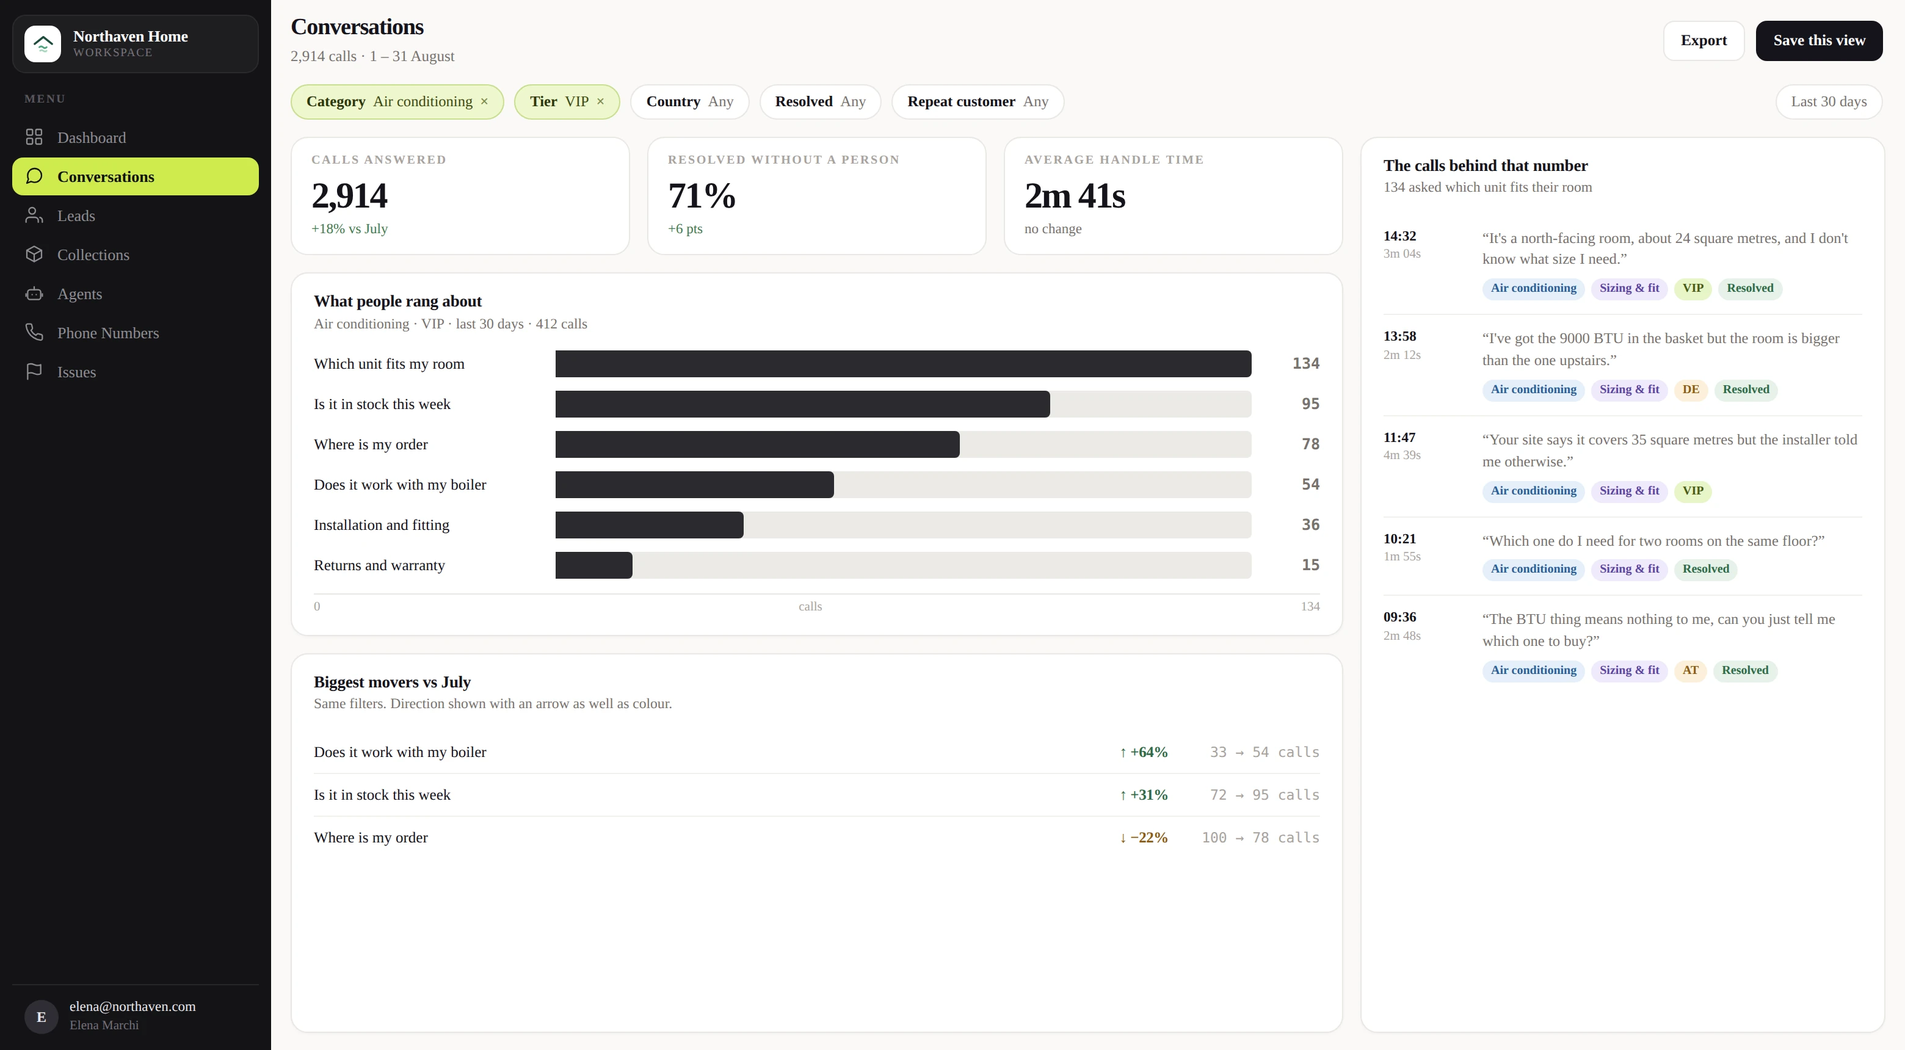
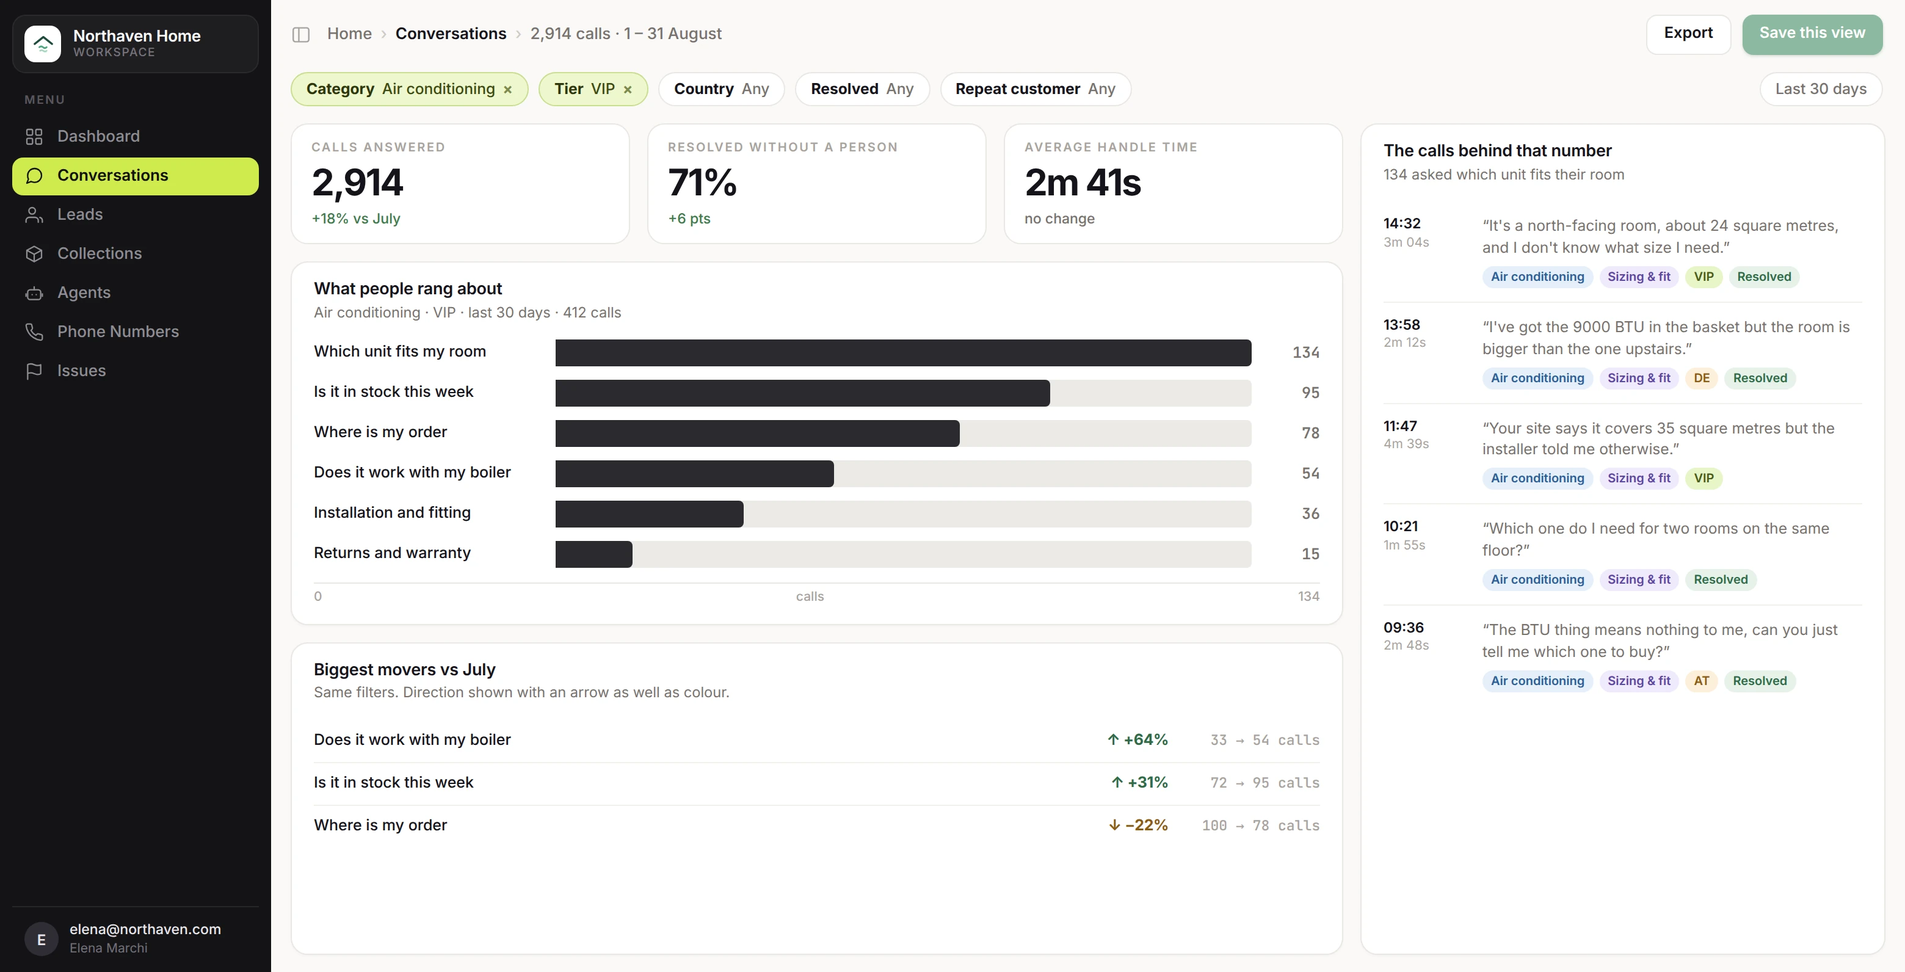
product section: five pages, fixed hero screenshots, integrations hero rewrite

diff --git a/site/it/prodotto/integrations-webhooks.html b/site/it/prodotto/integrations-webhooks.html
@@ -42,7 +42,7 @@
   <link href="/fuc/images/hWFOqN6Okd1QgfKhizqgIF1s.png" rel="icon" media="(prefers-color-scheme: light)">
   <link href="/fuc/images/dEcuqc3xAQ3JJoX4xQDYrMQefA.png" rel="icon" media="(prefers-color-scheme: dark)">
   <link rel="apple-touch-icon" href="/fuc/images/dEcuqc3xAQ3JJoX4xQDYrMQefA.png">
-  <script type="application/ld+json">{"@context": "https://schema.org", "@type": "WebPage", "name": "Le risposte sono già nei tuoi sistemi.", "description": "L’agente legge il tuo gestionale, il catalogo e il CRM mentre il cliente è ancora in linea, e scrive dopo. Nativo con Shopify, 8.500+ app via Zapier. Online in due settimane.", "url": "https://www.sabato.ai/it/prodotto/integrations-webhooks", "inLanguage": "it", "isPartOf": {"@type": "WebSite", "name": "Sabato AI", "url": "https://www.sabato.ai"}, "publisher": {"@type": "Organization", "name": "Sabato AI"}}</script><script type="application/ld+json">{"@context": "https://schema.org", "@type": "FAQPage", "mainEntity": [{"@type": "Question", "name": "E se il nostro gestionale non ha API?", "acceptedAnswer": {"@type": "Answer", "text": "Allora usiamo quello che ha: un export notturno, una vista sul database, o un portale in cui entriamo come ci entra il tuo team. Ci vuole più tempo e funziona. Due delle connessioni dietro la schermata qui sopra sono esattamente questo."}}, {"@type": "Question", "name": "Quanto ci mette l’integrazione?", "acceptedAnswer": {"@type": "Answer", "text": "Giorni, non un trimestre, perché il lavoro è nostro. La parte lunga non è quasi mai il software: è farsi dare le credenziali da chi tiene in mano il sistema."}}, {"@type": "Question", "name": "Legge i dati veri o una copia?", "acceptedAnswer": {"@type": "Answer", "text": "I dati veri. L’agente interroga il tuo sistema nel momento in cui risponde, quindi quello che dice al cliente è vero quando lo dice, non vero alle tre di notte quando è girato un export. Ogni lettura e ogni scrittura restano elencate sulla chiamata a cui appartenevano."}}, {"@type": "Question", "name": "Cosa succede se una scrittura fallisce?", "acceptedAnswer": {"@type": "Answer", "text": "Riprova. Se continua a fallire diventa un problema aperto con la chiamata allegata invece di sparire, e vedi ogni tentativo - anche quelli che ce ne hanno messi due."}}, {"@type": "Question", "name": "Possiamo mandare i dati delle chiamate nei nostri sistemi?", "acceptedAnswer": {"@type": "Answer", "text": "Sì. call.completed arriva al tuo endpoint con trascrizione, etichette ed esito, firmato e versionato. Qualcuno lo manda dritto nella propria reportistica e la nostra interfaccia non la apre mai."}}, {"@type": "Question", "name": "Quali sistemi supportate?", "acceptedAnswer": {"@type": "Answer", "text": "Con Shopify siamo nativi. Tutto il resto passa da Zapier, che sono 8.500+ app - Zendesk, Salesforce, HubSpot, Klaviyo, Slack, Fogli Google, WhatsApp e il resto della directory. Quello che non c’è è un webhook. L’elenco non è davvero il punto: se una persona del tuo team riesce a tirare fuori la risposta da lì, ci riusciamo anche noi."}}]}</script><link rel="alternate" hreflang="en" href="https://www.sabato.ai/product/integrations-webhooks"><link rel="alternate" hreflang="it" href="https://www.sabato.ai/it/prodotto/integrations-webhooks"><link rel="alternate" hreflang="x-default" href="https://www.sabato.ai/product/integrations-webhooks">
+  <script type="application/ld+json">{"@context": "https://schema.org", "@type": "WebPage", "name": "Il tuo agente si collega a tutto quello che già usi.", "description": "L’agente legge il tuo gestionale, il catalogo e il CRM mentre il cliente è ancora in linea, e scrive dopo. Nativo con Shopify, 8.500+ app via Zapier. Online in due settimane.", "url": "https://www.sabato.ai/it/prodotto/integrations-webhooks", "inLanguage": "it", "isPartOf": {"@type": "WebSite", "name": "Sabato AI", "url": "https://www.sabato.ai"}, "publisher": {"@type": "Organization", "name": "Sabato AI"}}</script><script type="application/ld+json">{"@context": "https://schema.org", "@type": "FAQPage", "mainEntity": [{"@type": "Question", "name": "E se il nostro gestionale non ha API?", "acceptedAnswer": {"@type": "Answer", "text": "Allora usiamo quello che ha: un export notturno, una vista sul database, o un portale in cui entriamo come ci entra il tuo team. Ci vuole più tempo e funziona. Due delle connessioni dietro la schermata qui sopra sono esattamente questo."}}, {"@type": "Question", "name": "Quanto ci mette l’integrazione?", "acceptedAnswer": {"@type": "Answer", "text": "Giorni, non un trimestre, perché il lavoro è nostro. La parte lunga non è quasi mai il software: è farsi dare le credenziali da chi tiene in mano il sistema."}}, {"@type": "Question", "name": "Legge i dati veri o una copia?", "acceptedAnswer": {"@type": "Answer", "text": "I dati veri. L’agente interroga il tuo sistema nel momento in cui risponde, quindi quello che dice al cliente è vero quando lo dice, non vero alle tre di notte quando è girato un export. Ogni lettura e ogni scrittura restano elencate sulla chiamata a cui appartenevano."}}, {"@type": "Question", "name": "Cosa succede se una scrittura fallisce?", "acceptedAnswer": {"@type": "Answer", "text": "Riprova. Se continua a fallire diventa un problema aperto con la chiamata allegata invece di sparire, e vedi ogni tentativo - anche quelli che ce ne hanno messi due."}}, {"@type": "Question", "name": "Possiamo mandare i dati delle chiamate nei nostri sistemi?", "acceptedAnswer": {"@type": "Answer", "text": "Sì. call.completed arriva al tuo endpoint con trascrizione, etichette ed esito, firmato e versionato. Qualcuno lo manda dritto nella propria reportistica e la nostra interfaccia non la apre mai."}}, {"@type": "Question", "name": "Quali sistemi supportate?", "acceptedAnswer": {"@type": "Answer", "text": "Con Shopify siamo nativi. Tutto il resto passa da Zapier, che sono 8.500+ app - Zendesk, Salesforce, HubSpot, Klaviyo, Slack, Fogli Google, WhatsApp e il resto della directory. Quello che non c’è è un webhook. L’elenco non è davvero il punto: se una persona del tuo team riesce a tirare fuori la risposta da lì, ci riusciamo anche noi."}}]}</script><link rel="alternate" hreflang="en" href="https://www.sabato.ai/product/integrations-webhooks"><link rel="alternate" hreflang="it" href="https://www.sabato.ai/it/prodotto/integrations-webhooks"><link rel="alternate" hreflang="x-default" href="https://www.sabato.ai/product/integrations-webhooks">
   <style>
     /* ============ Fonts (local mirrors, same files the site loads) ============ */
     @font-face { font-family: "Satoshi"; src: url("/fuc/third-party-assets/fontshare/wf/TTX2Z3BF3P6Y5BQT3IV2VNOK6FL22KUT/7QYRJOI3JIMYHGY6CH7SOIFRQLZOLNJ6/KFIAZD4RUMEZIYV6FQ3T3GP5PDBDB6JY.woff2") format("woff2"); font-display: swap; font-style: normal; font-weight: 400; }
@@ -921,8 +921,8 @@
     <section class="split-hero">
       <div class="hero-copy">
         <span class="tag">Integrazioni &amp; Webhook</span>
-        <h1>Le risposte sono già<br>nei tuoi sistemi.</h1>
-        <p class="sub">Un agente che non vede il tuo gestionale può solo dire con gentilezza che non lo sa. Il nostro legge la scheda vera mentre il cliente è ancora al telefono - stato, disponibilità, data di consegna, cosa aveva comprato l’altra volta - e poi scrive dove si lavora davvero.</p>
+        <h1>Il tuo agente si collega<br>a tutto quello che già usi.</h1>
+        <p class="sub">Un agente vocale da solo sa solo dire con gentilezza che non lo sa. Il nostro non lavora da solo: legge il gestionale, il catalogo e la scheda del cliente mentre la persona è ancora al telefono, e quando la chiamata finisce scrive nel tuo CRM, nel tuo helpdesk e nel tuo store. Nativo con Shopify, e 8.500+ app via Zapier.</p>
         <div class="hero-cta">
           <a class="btn-pill" href="https://cal.com/sabatoai/intro" target="_blank" rel="noopener">Inizia il Pilota Gratuito</a>
           <span class="hand">online in due settimane</span>

diff --git a/site/product/integrations-webhooks.html b/site/product/integrations-webhooks.html
@@ -42,7 +42,7 @@
   <link href="/fuc/images/hWFOqN6Okd1QgfKhizqgIF1s.png" rel="icon" media="(prefers-color-scheme: light)">
   <link href="/fuc/images/dEcuqc3xAQ3JJoX4xQDYrMQefA.png" rel="icon" media="(prefers-color-scheme: dark)">
   <link rel="apple-touch-icon" href="/fuc/images/dEcuqc3xAQ3JJoX4xQDYrMQefA.png">
-  <script type="application/ld+json">{"@context": "https://schema.org", "@type": "WebPage", "name": "Your systems already have the answers.", "description": "The agent reads your order system, catalogue and CRM while the caller is still on the line, and writes back after. Native with Shopify, 8,500+ apps through Zapier. Live in two weeks.", "url": "https://www.sabato.ai/product/integrations-webhooks", "inLanguage": "en", "isPartOf": {"@type": "WebSite", "name": "Sabato AI", "url": "https://www.sabato.ai"}, "publisher": {"@type": "Organization", "name": "Sabato AI"}}</script><script type="application/ld+json">{"@context": "https://schema.org", "@type": "FAQPage", "mainEntity": [{"@type": "Question", "name": "What if our order system has no API?", "acceptedAnswer": {"@type": "Answer", "text": "Then we use whatever it does have - a nightly export, a database view, or a portal we sign into the way your team does. It takes longer to build and it works. Two of the connections behind the screenshot above are exactly this."}}, {"@type": "Question", "name": "How long does the integration take?", "acceptedAnswer": {"@type": "Answer", "text": "Days, not a quarter, because the work is ours. The long pole is almost never the software - it is getting the credentials from whoever owns the system."}}, {"@type": "Question", "name": "Does it work on live data or a copy?", "acceptedAnswer": {"@type": "Answer", "text": "Live. The agent queries your system at the moment it answers, so what it tells a customer is true when it says it - not true at 3am when an export ran. Every read and every write is listed against the call it belonged to."}}, {"@type": "Question", "name": "What happens when a write fails?", "acceptedAnswer": {"@type": "Answer", "text": "It retries. If it still fails it is raised as an issue with the call attached rather than disappearing, and you can see every attempt - including the ones that took two."}}, {"@type": "Question", "name": "Can we send call data into our own systems?", "acceptedAnswer": {"@type": "Answer", "text": "Yes. call.completed posts to your endpoint with the transcript, the labels and the outcome, signed and versioned. Some customers pipe it straight into their own reporting and never open our interface."}}, {"@type": "Question", "name": "Which systems do you support?", "acceptedAnswer": {"@type": "Answer", "text": "Shopify is native. Everything else goes through Zapier, which is 8,500+ apps - Zendesk, Salesforce, HubSpot, Klaviyo, Slack, Sheets, WhatsApp and the rest of the directory. Anything not in there is a webhook. The list is not really the point: if a person in your team can get the answer out of it, so can we."}}]}</script><link rel="alternate" hreflang="en" href="https://www.sabato.ai/product/integrations-webhooks"><link rel="alternate" hreflang="it" href="https://www.sabato.ai/it/prodotto/integrations-webhooks"><link rel="alternate" hreflang="x-default" href="https://www.sabato.ai/product/integrations-webhooks">
+  <script type="application/ld+json">{"@context": "https://schema.org", "@type": "WebPage", "name": "Your agent plugs into everything you already run.", "description": "The agent reads your order system, catalogue and CRM while the caller is still on the line, and writes back after. Native with Shopify, 8,500+ apps through Zapier. Live in two weeks.", "url": "https://www.sabato.ai/product/integrations-webhooks", "inLanguage": "en", "isPartOf": {"@type": "WebSite", "name": "Sabato AI", "url": "https://www.sabato.ai"}, "publisher": {"@type": "Organization", "name": "Sabato AI"}}</script><script type="application/ld+json">{"@context": "https://schema.org", "@type": "FAQPage", "mainEntity": [{"@type": "Question", "name": "What if our order system has no API?", "acceptedAnswer": {"@type": "Answer", "text": "Then we use whatever it does have - a nightly export, a database view, or a portal we sign into the way your team does. It takes longer to build and it works. Two of the connections behind the screenshot above are exactly this."}}, {"@type": "Question", "name": "How long does the integration take?", "acceptedAnswer": {"@type": "Answer", "text": "Days, not a quarter, because the work is ours. The long pole is almost never the software - it is getting the credentials from whoever owns the system."}}, {"@type": "Question", "name": "Does it work on live data or a copy?", "acceptedAnswer": {"@type": "Answer", "text": "Live. The agent queries your system at the moment it answers, so what it tells a customer is true when it says it - not true at 3am when an export ran. Every read and every write is listed against the call it belonged to."}}, {"@type": "Question", "name": "What happens when a write fails?", "acceptedAnswer": {"@type": "Answer", "text": "It retries. If it still fails it is raised as an issue with the call attached rather than disappearing, and you can see every attempt - including the ones that took two."}}, {"@type": "Question", "name": "Can we send call data into our own systems?", "acceptedAnswer": {"@type": "Answer", "text": "Yes. call.completed posts to your endpoint with the transcript, the labels and the outcome, signed and versioned. Some customers pipe it straight into their own reporting and never open our interface."}}, {"@type": "Question", "name": "Which systems do you support?", "acceptedAnswer": {"@type": "Answer", "text": "Shopify is native. Everything else goes through Zapier, which is 8,500+ apps - Zendesk, Salesforce, HubSpot, Klaviyo, Slack, Sheets, WhatsApp and the rest of the directory. Anything not in there is a webhook. The list is not really the point: if a person in your team can get the answer out of it, so can we."}}]}</script><link rel="alternate" hreflang="en" href="https://www.sabato.ai/product/integrations-webhooks"><link rel="alternate" hreflang="it" href="https://www.sabato.ai/it/prodotto/integrations-webhooks"><link rel="alternate" hreflang="x-default" href="https://www.sabato.ai/product/integrations-webhooks">
   <style>
     /* ============ Fonts (local mirrors, same files the site loads) ============ */
     @font-face { font-family: "Satoshi"; src: url("/fuc/third-party-assets/fontshare/wf/TTX2Z3BF3P6Y5BQT3IV2VNOK6FL22KUT/7QYRJOI3JIMYHGY6CH7SOIFRQLZOLNJ6/KFIAZD4RUMEZIYV6FQ3T3GP5PDBDB6JY.woff2") format("woff2"); font-display: swap; font-style: normal; font-weight: 400; }
@@ -921,8 +921,8 @@
     <section class="split-hero">
       <div class="hero-copy">
         <span class="tag">Integrations &amp; Webhooks</span>
-        <h1>Your systems already<br>have the answers.</h1>
-        <p class="sub">An agent that cannot see your order system can only be polite about not knowing. Ours reads the real record while the caller is still on the line - status, stock, delivery date, what they bought last time - and writes back where the work actually lives when the call ends.</p>
+        <h1>Your agent plugs into<br>everything you already run.</h1>
+        <p class="sub">A voice agent on its own can only be polite about not knowing. Ours does not work alone: it reads your order system, your catalogue and your customer record while the caller is still on the line, and when the call ends it writes into your CRM, your helpdesk and your store. Native with Shopify, and 8,500+ apps through Zapier.</p>
         <div class="hero-cta">
           <a class="btn-pill" href="https://cal.com/sabatoai/intro" target="_blank" rel="noopener">Start Free Pilot</a>
           <span class="hand">live in two weeks</span>

diff --git a/assets-src/call-data-intelligence.html b/assets-src/call-data-intelligence.html
@@ -24,12 +24,16 @@
     --side:#141416; --side-txt:#8f8d94; --side-hi:#cfeb4d;
     --bg:#faf9f8; --line:#eae7e3; --line-2:#f3f1ee;
     --ink:#15131a; --mut:#77726e; --mut-2:#a8a39e;
-    --lime:#d4ee56;
+    --lime:#d4ee56; --sage:#8bb99f;
     --bar:#2b2a2e;          /* sequential hue, darkest step */
     --track:#ece9e6;
   }
   *{box-sizing:border-box;margin:0;padding:0}
-  html,body{width:1560px;height:860px;overflow:hidden}
+  html,body{width:1560px;height:796px;overflow:hidden}  /* 796, NOT 860: product.py declares the <img> as 1560x796, so an
+     860-tall export gets squashed 7.4% vertically by the browser. That
+     non-uniform scale is what made these two look like a different
+     product - the type is the same Inter, it was being distorted.
+     Daniel, 15 Aug: "fonts and look and feel that doesn't match". */
   body{background:var(--bg);font:13.5px/1.45 Inter,-apple-system,sans-serif;
        color:var(--ink);-webkit-font-smoothing:antialiased;display:flex}
 
@@ -59,13 +63,18 @@
 
   .main{flex:1;display:flex;flex-direction:column;min-width:0;padding:12px 16px 14px 0}
   .top{display:flex;align-items:center;gap:9px;padding:0 2px 14px 16px}
+  .pane-ico{width:17px;height:17px;stroke:var(--mut-2);fill:none;stroke-width:1.7;
+            margin-right:4px}
+  .path{flex:1;display:flex;align-items:center;gap:7px;font:500 13px/1 Inter;color:var(--mut)}
+  .path b{color:var(--ink);font-weight:600}
+  .path .sep{color:#d0cbc6}
   .h1{flex:1;font:600 19px/1.2 "Inter Display",Inter;letter-spacing:-.03em}
   .h1 span{display:block;font:400 12.5px/1.4 Inter;color:var(--mut);
            letter-spacing:0;margin-top:3px}
   .btn{height:33px;border-radius:9px;display:flex;align-items:center;padding:0 14px;
        font:600 12.6px/1 Inter}
   .btn.ghost{background:#fff;border:1px solid var(--line);color:var(--ink)}
-  .btn.dark{background:var(--ink);color:#fff}
+  .btn.pub{background:var(--sage);color:#fff;box-shadow:0 1px 2px rgba(60,90,72,.2)}
 
   /* filters in ONE row above the charts, per the interaction spec */
   .filters{display:flex;align-items:center;gap:8px;padding:0 2px 14px 16px;flex-wrap:wrap}
@@ -183,9 +192,11 @@
 
 <main class="main">
   <div class="top">
-    <div class="h1">Conversations<span>2,914 calls · 1 – 31 August</span></div>
+    <svg class="pane-ico" viewBox="0 0 24 24"><rect x="3" y="4" width="18" height="16" rx="2.5"/><path d="M9.5 4v16"/></svg>
+    <div class="path">Home <span class="sep">›</span> <b>Conversations</b>
+      <span class="sep">›</span> 2,914 calls · 1 – 31 August</div>
     <div class="btn ghost">Export</div>
-    <div class="btn dark">Save this view</div>
+    <div class="btn pub">Save this view</div>
   </div>
 
   <div class="filters">

diff --git a/assets-src/workflow-builder.html b/assets-src/workflow-builder.html
@@ -21,7 +21,11 @@
     --sage:#8bb99f; --lime:#d4ee56;
   }
   *{box-sizing:border-box;margin:0;padding:0}
-  html,body{width:1560px;height:860px;overflow:hidden}
+  html,body{width:1560px;height:796px;overflow:hidden}  /* 796, NOT 860: product.py declares the <img> as 1560x796, so an
+     860-tall export gets squashed 7.4% vertically by the browser. That
+     non-uniform scale is what made these two look like a different
+     product - the type is the same Inter, it was being distorted.
+     Daniel, 15 Aug: "fonts and look and feel that doesn't match". */
   body{background:var(--bg);font:13.5px/1.45 Inter,-apple-system,sans-serif;
        color:var(--ink);-webkit-font-smoothing:antialiased;display:flex}
 
@@ -63,7 +67,8 @@
   .btn{height:33px;border-radius:9px;display:flex;align-items:center;padding:0 14px;
        font:600 12.6px/1 Inter}
   .btn.ghost{background:#fff;border:1px solid var(--line);color:var(--ink)}
-  .btn.run{background:var(--ink);color:#fff;display:flex;gap:7px;align-items:center}
+  .btn.run{background:var(--sage);color:#fff;display:flex;gap:7px;align-items:center;
+           box-shadow:0 1px 2px rgba(60,90,72,.2)}
   .btn.run svg{width:12px;height:12px;fill:#fff}
 
   .cols{flex:1;display:flex;gap:13px;min-height:0;padding-left:6px}

diff --git a/product_data_it.py b/product_data_it.py
@@ -658,12 +658,12 @@ INTEGRATIONS_WEBHOOKS_IT = dict(
                 "mentre il cliente è ancora in linea, e scrive dopo. Nativo con "
                 "Shopify, 8.500+ app via Zapier. Online in due settimane.",
 
-    h1="Le risposte sono già[br]nei tuoi sistemi.",
-    sub="Un agente che non vede il tuo gestionale può solo dire con "
-        "gentilezza che non lo sa. Il nostro legge la scheda vera mentre il "
-        "cliente è ancora al telefono - stato, disponibilità, data di "
-        "consegna, cosa aveva comprato l’altra volta - e poi scrive dove si "
-        "lavora davvero.",
+    h1="Il tuo agente si collega[br]a tutto quello che già usi.",
+    sub="Un agente vocale da solo sa solo dire con gentilezza che non lo sa. Il "
+        "nostro non lavora da solo: legge il gestionale, il catalogo e la "
+        "scheda del cliente mentre la persona è ancora al telefono, e quando la "
+        "chiamata finisce scrive nel tuo CRM, nel tuo helpdesk e nel tuo store. "
+        "Nativo con Shopify, e 8.500+ app via Zapier.",
 
     hero_visual="",
 

diff --git a/product_data.py b/product_data.py
@@ -668,11 +668,12 @@ INTEGRATIONS_WEBHOOKS = dict(
                 "caller is still on the line, and writes back after. Native "
                 "with Shopify, 8,500+ apps through Zapier. Live in two weeks.",
 
-    h1="Your systems already[br]have the answers.",
-    sub="An agent that cannot see your order system can only be polite about not "
-        "knowing. Ours reads the real record while the caller is still on the "
-        "line - status, stock, delivery date, what they bought last time - and "
-        "writes back where the work actually lives when the call ends.",
+    h1="Your agent plugs into[br]everything you already run.",
+    sub="A voice agent on its own can only be polite about not knowing. Ours "
+        "does not work alone: it reads your order system, your catalogue and "
+        "your customer record while the caller is still on the line, and when "
+        "the call ends it writes into your CRM, your helpdesk and your store. "
+        "Native with Shopify, and 8,500+ apps through Zapier.",
 
     hero_visual="",
 
